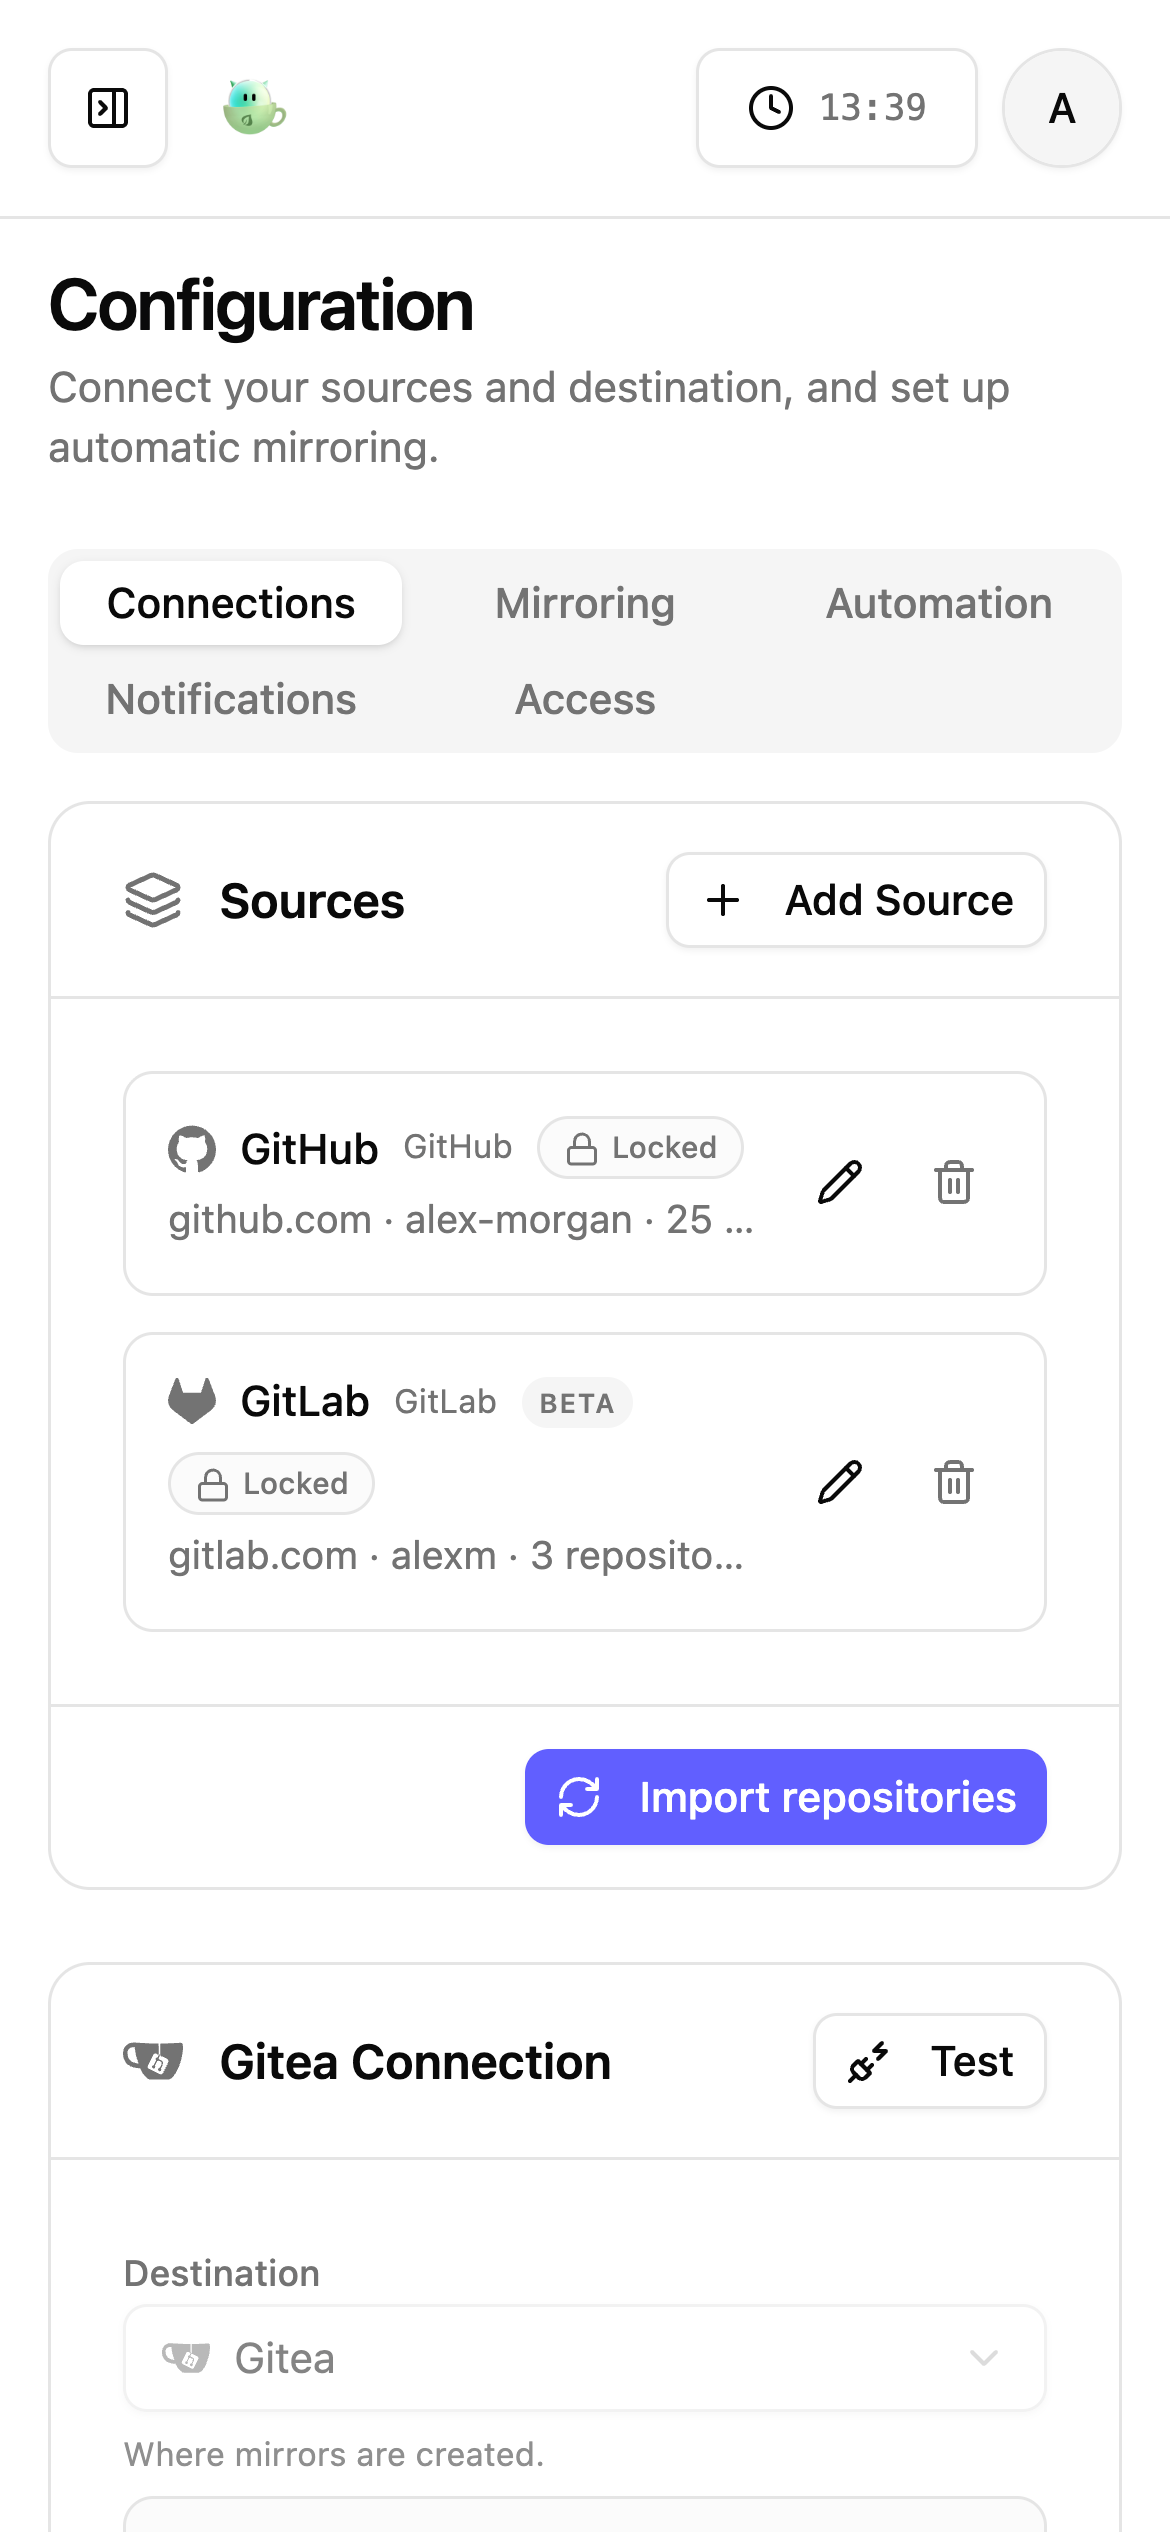
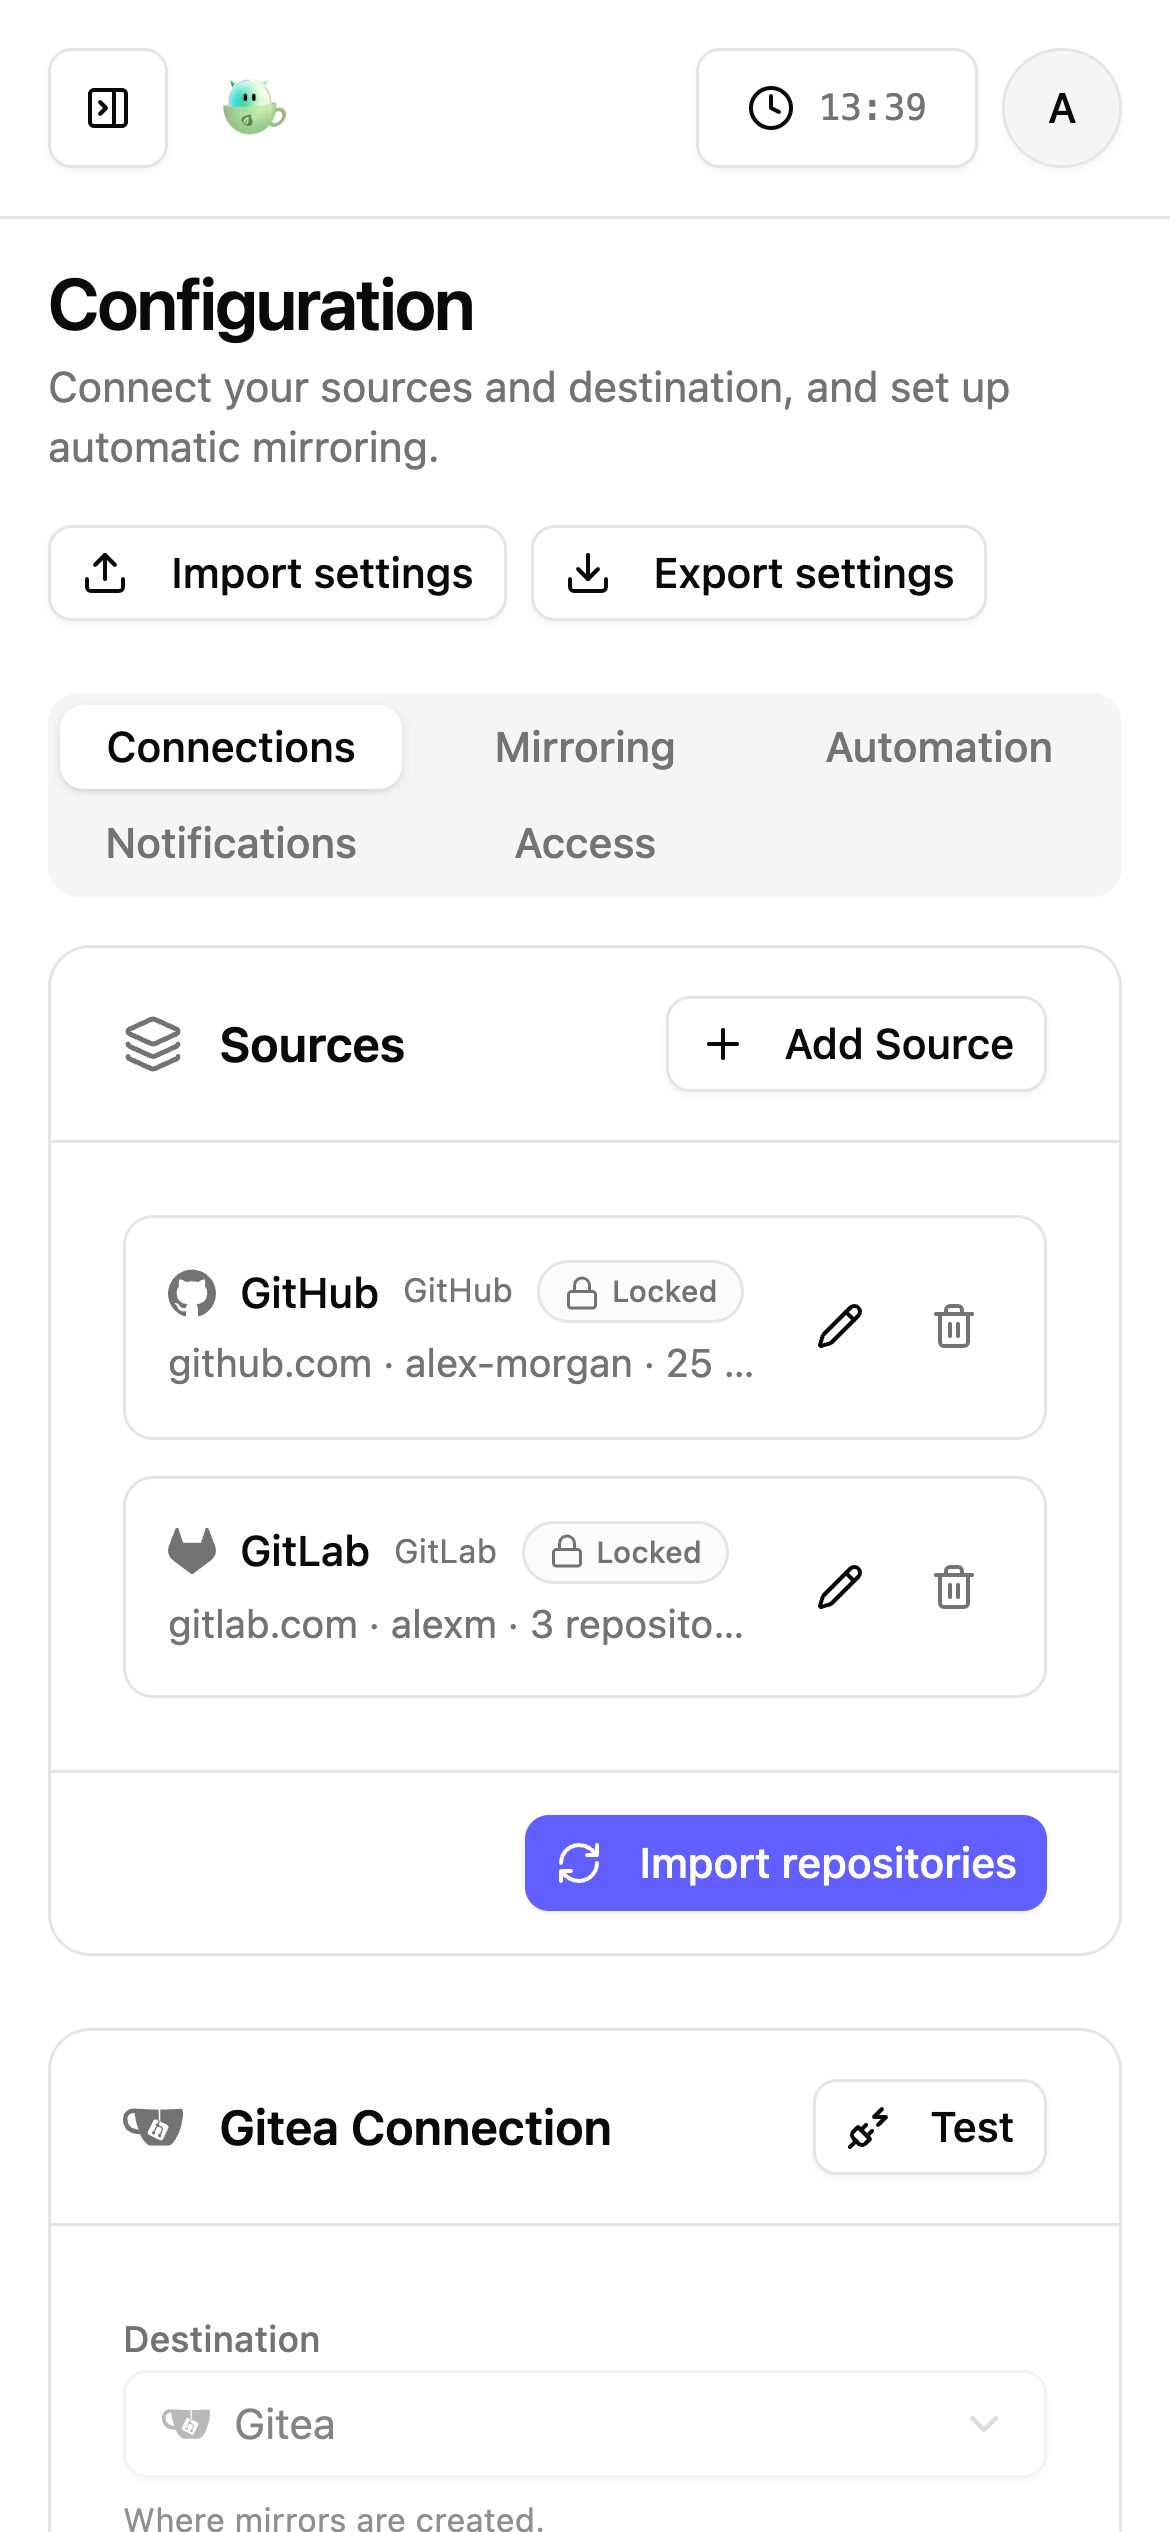
chore: drop the beta label from tested sources, Forgejo and LFS
GitLab and Gitea / Forgejo sources (Codeberg included), the Forgejo
destination and Git LFS mirroring have had three months of use and fixes
since they shipped (#440, #506 and others), so they lose the BETA pill
and the "Beta." line under the dropdowns.

The Git URL source (two weeks old) and the GitHub and GitLab push
destinations (no field reports yet, and they overwrite the copy on
every sync) stay in beta. isBetaSourceProvider and
isBetaDestinationProvider now check explicit lists instead of "anything
but the default".

The site, docs, README and FAQ say the same, and the Configuration and
destination screenshots are retaken without the old pills.

diff --git a/www/src/lib/use-cases.ts b/www/src/lib/use-cases.ts
@@ -115,18 +115,18 @@ export const useCases: UseCase[] = [
   {
     slug: 'mirror-gitlab-to-gitea',
     title: 'Mirror GitLab Projects to Gitea',
-    summary: 'Point the source at gitlab.com or your own GitLab (beta) and keep projects, groups and subgroups mirrored into Gitea on a schedule.',
+    summary: 'Point the source at gitlab.com or your own GitLab and keep projects, groups and subgroups mirrored into Gitea on a schedule.',
     painPoint: 'Projects that live on GitLab were out of reach for a tool that only spoke GitHub, and hand-made pull mirrors do not notice new projects.',
     outcome: 'GitLab projects are discovered through the API, mirrored with branches, tags, wiki and LFS, and kept in sync like any GitHub repository.',
-    tags: ['GitLab', 'Sources', 'Beta'],
+    tags: ['GitLab', 'Sources'],
   },
   {
     slug: 'backup-codeberg-forgejo-repositories',
     title: 'Back Up Codeberg and Forgejo Repositories',
-    summary: 'Use a Gitea or Forgejo instance, Codeberg included, as the source (beta), and Forgejo as a named destination for the other direction.',
+    summary: 'Use a Gitea or Forgejo instance, Codeberg included, as the source, and Forgejo as a named destination for the other direction.',
     painPoint: 'Code on Codeberg or on a second Gitea had no place in a GitHub-only backup routine, and Forgejo had to pretend to be Gitea.',
     outcome: 'Any Gitea or Forgejo host can be the source, Forgejo is a destination in its own right, and each row remembers where it was mirrored.',
-    tags: ['Codeberg', 'Forgejo', 'Beta'],
+    tags: ['Codeberg', 'Forgejo'],
   },
   {
     slug: 'mirror-to-github-or-gitlab',

diff --git a/www/src/components/Hero.tsx b/www/src/components/Hero.tsx
@@ -138,8 +138,8 @@ export function Hero() {
           Preserve issues, PRs, releases, and wiki in your own Gitea server.
         </p>
         <p className="mt-3 text-sm sm:text-base text-muted-foreground max-w-2xl mx-auto px-4 z-20">
-          It also mirrors from GitLab, Gitea and Forgejo, including Codeberg, and can push to GitHub, GitLab and Forgejo.
-          Those paths are in beta. GitHub to Gitea is the supported default.
+          It also mirrors from GitLab, Gitea and Forgejo, including Codeberg, into Gitea or Forgejo.
+          Pushing to GitHub or GitLab is in beta.
         </p>
 
         <div className="mt-6 sm:mt-8 flex flex-wrap items-center justify-center gap-3 text-xs sm:text-sm text-muted-foreground px-4 z-20">
@@ -157,7 +157,7 @@ export function Hero() {
           </div>
           <div className="flex items-center gap-2 px-3 py-1 rounded-full bg-accent-teal/10 text-accent-teal">
             <GitBranch className="w-3 h-3 sm:w-4 sm:h-4" />
-            <span className="font-medium">GitLab, Forgejo and Codeberg in beta</span>
+            <span className="font-medium">GitLab, Forgejo and Codeberg too</span>
           </div>
         </div>
 

diff --git a/src/components/config/SourcesCard.tsx b/src/components/config/SourcesCard.tsx
@@ -131,10 +131,10 @@ function providerMetaFor(provider: SourceProvider): SourceProviderMeta {
 function providerHelp(provider: SourceProvider): string {
   if (provider === "github") return "Where your repositories are pulled from";
   if (provider === "gitlab")
-    return "Beta. Code, tags, wiki and LFS are mirrored. Issues, merge requests and releases need a GitHub source.";
+    return "Code, tags, wiki and LFS are mirrored. Issues, merge requests and releases need a GitHub source.";
   if (provider === "git")
     return "Beta. Any host that can be cloned over http(s). Add each repository by its clone URL on the Repositories page. Branches and tags are mirrored; there is nothing to list, so no auto-import, releases or issues.";
-  return "Beta. Code, tags, releases, wiki and LFS are mirrored. Issues and pull requests need a GitHub source.";
+  return "Code, tags, releases, wiki and LFS are mirrored. Issues and pull requests need a GitHub source.";
 }
 
 function sourceHost(source: SourceApiRecord): string {

diff --git a/src/lib/destination-kinds.ts b/src/lib/destination-kinds.ts
@@ -19,9 +19,15 @@ export type PushDestinationKind = (typeof PUSH_DESTINATION_KINDS)[number];
 
 export const DEFAULT_DESTINATION_PROVIDER: DestinationProviderKind = "gitea";
 
-/** Destinations other than Gitea are beta: they work end to end but have had less time in the field. */
+/**
+ * Destinations still in beta: the push targets, which overwrite the copy on
+ * every sync and have had little use in the field. Forgejo shares Gitea's API
+ * and left beta in 3.59.
+ */
+const BETA_DESTINATION_PROVIDERS: readonly DestinationProviderKind[] = ["github", "gitlab"];
+
 export function isBetaDestinationProvider(kind: DestinationProviderKind): boolean {
-  return kind !== DEFAULT_DESTINATION_PROVIDER;
+  return BETA_DESTINATION_PROVIDERS.includes(kind);
 }
 
 export const DESTINATION_PROVIDER_LABELS: Record<DestinationProviderKind, string> = {

diff --git a/src/components/config/GitHubConfigForm.tsx b/src/components/config/GitHubConfigForm.tsx
@@ -326,8 +326,8 @@ export function GitHubConfigForm({
               {provider === "github"
                 ? "Where your repositories are pulled from"
                 : provider === "gitlab"
-                  ? "Beta. Code, tags, wiki and LFS are mirrored. Issues, merge requests and releases need a GitHub source."
-                  : "Beta. Code, tags, releases, wiki and LFS are mirrored. Issues and pull requests need a GitHub source."}
+                  ? "Code, tags, wiki and LFS are mirrored. Issues, merge requests and releases need a GitHub source."
+                  : "Code, tags, releases, wiki and LFS are mirrored. Issues and pull requests need a GitHub source."}
             </p>
             {sourceLock?.locked && (
               <HostLockNotice

diff --git a/src/lib/source-providers/kinds.ts b/src/lib/source-providers/kinds.ts
@@ -13,9 +13,15 @@ export type SourceProviderKind = (typeof SOURCE_PROVIDER_KINDS)[number];
 
 export const DEFAULT_SOURCE_PROVIDER: SourceProviderKind = "github";
 
-/** Sources other than GitHub are beta: they work end to end but have had less time in the field. */
+/**
+ * Sources still in beta: they work end to end but have had little time in the
+ * field. GitLab and Gitea / Forgejo left beta after three months of use and
+ * fixes (#506, #440); Git URL arrived in 3.52.
+ */
+const BETA_SOURCE_PROVIDERS: readonly SourceProviderKind[] = ["git"];
+
 export function isBetaSourceProvider(kind: SourceProviderKind): boolean {
-  return kind !== DEFAULT_SOURCE_PROVIDER;
+  return BETA_SOURCE_PROVIDERS.includes(kind);
 }
 
 /**

diff --git a/src/components/config/GiteaConfigForm.tsx b/src/components/config/GiteaConfigForm.tsx
@@ -325,7 +325,7 @@ export function GiteaConfigForm({ config, setConfig, onAutoSave, isAutoSaving, g
               {isPushTarget
                 ? `${providerLabel} has no pull mirror API, so this app keeps a bare clone of each source repository and pushes its branches and tags there.`
                 : provider === "forgejo"
-                  ? "Beta. Where mirrors are created. Forgejo shares Gitea's API, so everything Gitea supports works here."
+                  ? "Where mirrors are created. Forgejo shares Gitea's API, so everything Gitea supports works here."
                   : "Where mirrors are created."}
             </p>
             {destinationLock?.locked && (

diff --git a/src/lib/source-providers/kinds.test.ts b/src/lib/source-providers/kinds.test.ts
@@ -13,10 +13,11 @@ import {
 } from "./kinds";
 
 describe("isBetaSourceProvider", () => {
-  test("GitHub is the supported default; every other source is beta", () => {
+  test("only the Git URL source is still beta", () => {
     expect(isBetaSourceProvider("github")).toBe(false);
-    expect(isBetaSourceProvider("gitlab")).toBe(true);
-    expect(isBetaSourceProvider("gitea")).toBe(true);
+    expect(isBetaSourceProvider("gitlab")).toBe(false);
+    expect(isBetaSourceProvider("gitea")).toBe(false);
+    expect(isBetaSourceProvider("git")).toBe(true);
   });
 });
 

diff --git a/src/lib/destination-kinds.test.ts b/src/lib/destination-kinds.test.ts
@@ -12,9 +12,9 @@ import {
 } from "./destination-kinds";
 
 describe("destination kinds", () => {
-  test("Gitea is the supported default; every other destination is beta", () => {
+  test("only the GitHub and GitLab push targets are still beta", () => {
     expect(isBetaDestinationProvider("gitea")).toBe(false);
-    expect(isBetaDestinationProvider("forgejo")).toBe(true);
+    expect(isBetaDestinationProvider("forgejo")).toBe(false);
     expect(isBetaDestinationProvider("github")).toBe(true);
     expect(isBetaDestinationProvider("gitlab")).toBe(true);
   });

diff --git a/src/components/config/GitHubMirrorSettings.tsx b/src/components/config/GitHubMirrorSettings.tsx
@@ -1203,7 +1203,6 @@ export function GitHubMirrorSettings({
             description={
               isPushTarget ? pushTargetReason : "Requires LFS enabled on your Gitea server and Git v2.1.2+"
             }
-            badge="BETA"
             disabled={isPushTarget}
             checked={mirrorOptions.mirrorLFS}
             onCheckedChange={(checked) => handleMirrorChange('mirrorLFS', checked)}

diff --git a/CHANGELOG.md b/CHANGELOG.md
@@ -39,6 +39,7 @@ and this project adheres to [Semantic Versioning](https://semver.org/spec/v2.0.0
 - An SSO sign-in is no longer linked to a local account from another domain. When the identity provider said the email was verified, the sign-in was linked to the local account with that email whatever the provider's Email Domain, so someone who could get that email at the provider could take over the account. Linking now only happens for emails in the provider's domain, as the docs already said
 
 ### Changed
+- GitLab and Gitea / Forgejo sources (Codeberg included), the Forgejo destination and Git LFS mirroring are no longer marked beta. They have had three months of use and fixes since they shipped (#440, #506 and others). The Git URL source, which arrived in 3.52, and the GitHub and GitLab push destinations, which overwrite the copy on every sync, keep their BETA pill
 - A change on the Configuration page that leaves mirrors out of place now brings up a bar at the bottom of the page saying how many, with **Review and move** and **Not now** (#550). The count was only in the Organization Structure card's footer, which on a laptop sits below the fold while you pick a strategy, so nothing said the change touched existing mirrors. The bar shows wherever the page is scrolled, follows a move started from it until it ends, and **Not now** puts it away until the next change. It stays down when the change failed to save. Mirrors that were already out of place when the page opened are still shown in the card only
 - The Configuration page is regrouped into five tabs. Connections held six cards, and four of them were about mirroring rather than connecting, so release, metadata and placement options were hard to find. Connections now holds the Sources card and the destination card at their own heights. A new **Mirroring** tab holds Repository Selection and Mirror Content on the left and Organization Structure on the right. Destructive Update Protection moved to the Automation tab next to the sync cards, and the Authentication tab is now called **Access**, since it also holds API keys. The import button moved from the page header into the Sources card as **Import repositories**: it imports from every source, so it no longer names one, and it is hidden when only Git URL sources are connected, since those have nothing to list. No setting changed
 - GitHub App sources reuse GitHub's "not modified" answers (#563, thanks @cypherbits). Sources with a token already kept the ETag of each listing and asked again with it, which GitHub answers for free when nothing changed, but App sources fetched everything in full on every sync, so each scheduled sync spent the installation's rate limit on repository details, releases, milestones, issues and pull requests that had not changed. Sources without a token are unchanged, since GitHub counts those answers anyway

diff --git a/README.md b/README.md
@@ -39,8 +39,8 @@ Open http://localhost:4321 and create an account; the first one becomes the admi
 ## Features
 
 - Mirror your public, private and starred repositories and whole organizations, including public organizations you are not a member of
-- Sources: GitHub, GitHub Enterprise and GitHub Apps, plus GitLab, Gitea, Forgejo and plain git hosts in beta ([Sources](https://gitea-mirror.raylabs.io/docs/sources/))
-- Destinations: Gitea as pull mirrors, plus Forgejo, and GitHub or GitLab as push targets, in beta ([Destinations](https://gitea-mirror.raylabs.io/docs/destinations/))
+- Sources: GitHub, GitHub Enterprise and GitHub Apps, GitLab, Gitea and Forgejo, plus plain git hosts in beta ([Sources](https://gitea-mirror.raylabs.io/docs/sources/))
+- Destinations: Gitea and Forgejo as pull mirrors, plus GitHub or GitLab as push targets in beta ([Destinations](https://gitea-mirror.raylabs.io/docs/destinations/))
 - Issues, pull requests (as issues), labels, milestones, releases with assets, wiki and Git LFS, with filters and limits per organization and repository
 - Mirror strategies to keep the source's structure, use one organization, or put everything under your user, plus a destination per organization or repository
 - Scheduled syncs, discovery of new repositories, and cleanup that archives mirrors whose source is gone ([Cleanup and reconcile](https://gitea-mirror.raylabs.io/docs/cleanup-and-reconcile/))
